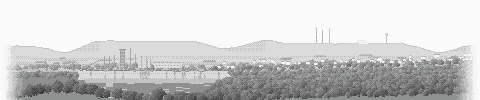
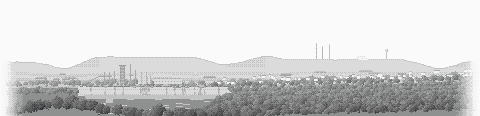
feat: footer text inside the scene, night mode, and to-top fix
Move the footer links and copyright into the sky of the pixel-art scene,
reveal the parts in sequence, drift clouds at three depths, show stars
and lit windows at night in Sierras Bayas (dark theme), and hide the
back-to-top button while the footer is on screen.

diff --git a/src/utils/footerAnimation.ts b/src/utils/footerAnimation.ts
@@ -1,7 +1,9 @@
 // Animates the pixel-art footer on a canvas laid over the static image, on the
-// same pixel grid and in the same greys: drifting clouds, smoke from the
-// chimney, blinking antenna tips, glints on the lake and the odd pair of birds.
-// Positions and palette come from scripts/footer-landscape.mjs.
+// same pixel grid and in the same greys: clouds drifting at three depths,
+// smoke from the chimney, blinking antenna tips, glints on the lake and the odd
+// pair of birds. After dark in Sierras Bayas itself, the dark theme shows stars
+// and a few lit windows. Positions and palette come from
+// scripts/footer-landscape.mjs.
 //
 // Motion is stepped at a low frame rate, like the art. Nothing runs while the
 // footer is off screen or the tab is hidden, and with reduced motion only the
@@ -99,17 +101,74 @@ export function initFooterAnimation(root: HTMLElement) {
 
 	// ---------------------------------------------------------------- layers
 
+	// Back, middle and front cloud layers move at different speeds, after
+	// ignasimonreal.com: the far ones are slower and hazier.
+	const CLOUD_SPEED = [0.45, 0.75, 1.1]; // pixels every two seconds
+	const CLOUD_HAZE = [0.9, 0.87, 0.84];
 	const span = art.W + 120;
 	const drawClouds = (t: number) => {
-		art.clouds.forEach((c, i) => {
-			// About one pixel every two seconds, wrapping across the whole sky.
-			const drift = (t / 2000) * (i ? 0.8 : 1);
+		for (const c of art.clouds) {
+			const drift = (t / 2000) * CLOUD_SPEED[c.depth]!;
 			const cx = ((((c.x + drift + 60) % span) + span) % span) - 60;
 			for (let row = 0; row < 2; row++) {
 				const half = Math.round(((c.w / 2) * (1 - row * 0.4)) / 2) * 2;
-				for (let x = -half; x < half; x++) plot(cx + x, c.y - row, 0.2, 0.86 - row * 0.03);
+				const h = CLOUD_HAZE[c.depth]! - row * 0.03;
+				for (let x = -half; x < half; x++) plot(cx + x, c.y - row, 0.2, h);
 			}
-		});
+		}
+	};
+
+	// ---------------------------------------------------------------- night
+
+	// The scene keeps Sierras Bayas time, so the mood matches the real place.
+	const zone = "America/Argentina/Buenos_Aires";
+	const clock = new Intl.DateTimeFormat("en-GB", {
+		timeZone: zone,
+		hour: "2-digit",
+		minute: "2-digit",
+		hour12: false,
+	});
+	let night = false;
+	let lastClock = -Infinity;
+	const tickClock = (t: number) => {
+		if (t - lastClock < 60_000) return;
+		lastClock = t;
+		const time = clock.format(new Date());
+		const hour = Number(time.slice(0, 2));
+		night = hour >= 20 || hour < 7;
+		root.title = `Sierras Bayas, ${time} local time. Read about it on Wikipedia`;
+	};
+
+	// Stars stay in open sky and out of the band where the footer text sits.
+	const stars: { x: number; y: number; period: number; phase: number }[] = [];
+	for (let i = 0; i < 400 && stars.length < 34; i++) {
+		const x = Math.floor(Math.random() * art.W);
+		const top = art.skyline[x]! - 4;
+		if (top < 3) continue;
+		const y = 1 + Math.floor(Math.random() * top);
+		if (Math.abs(x - art.W / 2) < 90 && y > 4 && y < 40) continue;
+		stars.push({ x, y, period: 2500 + Math.random() * 3000, phase: Math.random() * 6.28 });
+	}
+	const litWindows = art.windows
+		.filter(() => Math.random() < 0.45)
+		.map((w) => ({
+			...w,
+			seed: Math.random() * 1000,
+		}));
+
+	const drawNight = (t: number) => {
+		// Night reads only against a dark sky, as in ignasimonreal.com's capture.
+		if (!night || theme !== "dark") return;
+		for (const s of stars) {
+			// Twinkle in a few stepped greys.
+			const v = Math.sin((t / s.period) * Math.PI * 2 + s.phase);
+			plot(s.x, s.y, 0, lerp(0.82, 0.45, (v + 1) / 2));
+		}
+		for (const w of litWindows) {
+			// Each one goes dark for a while now and then.
+			if ((t / 1000 + w.seed) % 47 > 40) continue;
+			plot(w.x, w.y, 0, 0.2);
+		}
 	};
 
 	const smoke: Smoke[] = [];
@@ -228,6 +287,8 @@ export function initFooterAnimation(root: HTMLElement) {
 		last = now;
 		const t = now - start;
 		ctx.clearRect(0, 0, width, art.H);
+		tickClock(t);
+		drawNight(t);
 		drawClouds(t);
 		drawSmoke(t);
 		drawAntennas(t);
@@ -237,6 +298,8 @@ export function initFooterAnimation(root: HTMLElement) {
 
 	const still = () => {
 		ctx.clearRect(0, 0, width, art.H);
+		tickClock(performance.now() - start);
+		drawNight(0);
 		drawClouds(0);
 	};
 
@@ -268,12 +331,13 @@ export function initFooterAnimation(root: HTMLElement) {
 	document.addEventListener("visibilitychange", update);
 
 	// Reveal once on first sight, and only animate while on screen.
-	root.dataset.reveal = "pending";
+	const scene = root.closest<HTMLElement>("[data-footer-scene]") ?? root;
+	scene.dataset.reveal = "pending";
 	new IntersectionObserver(
 		(entries) => {
 			for (const e of entries) {
 				visible = e.isIntersecting;
-				if (visible) root.dataset.reveal = "shown";
+				if (visible) scene.dataset.reveal = "shown";
 			}
 			update();
 		},
